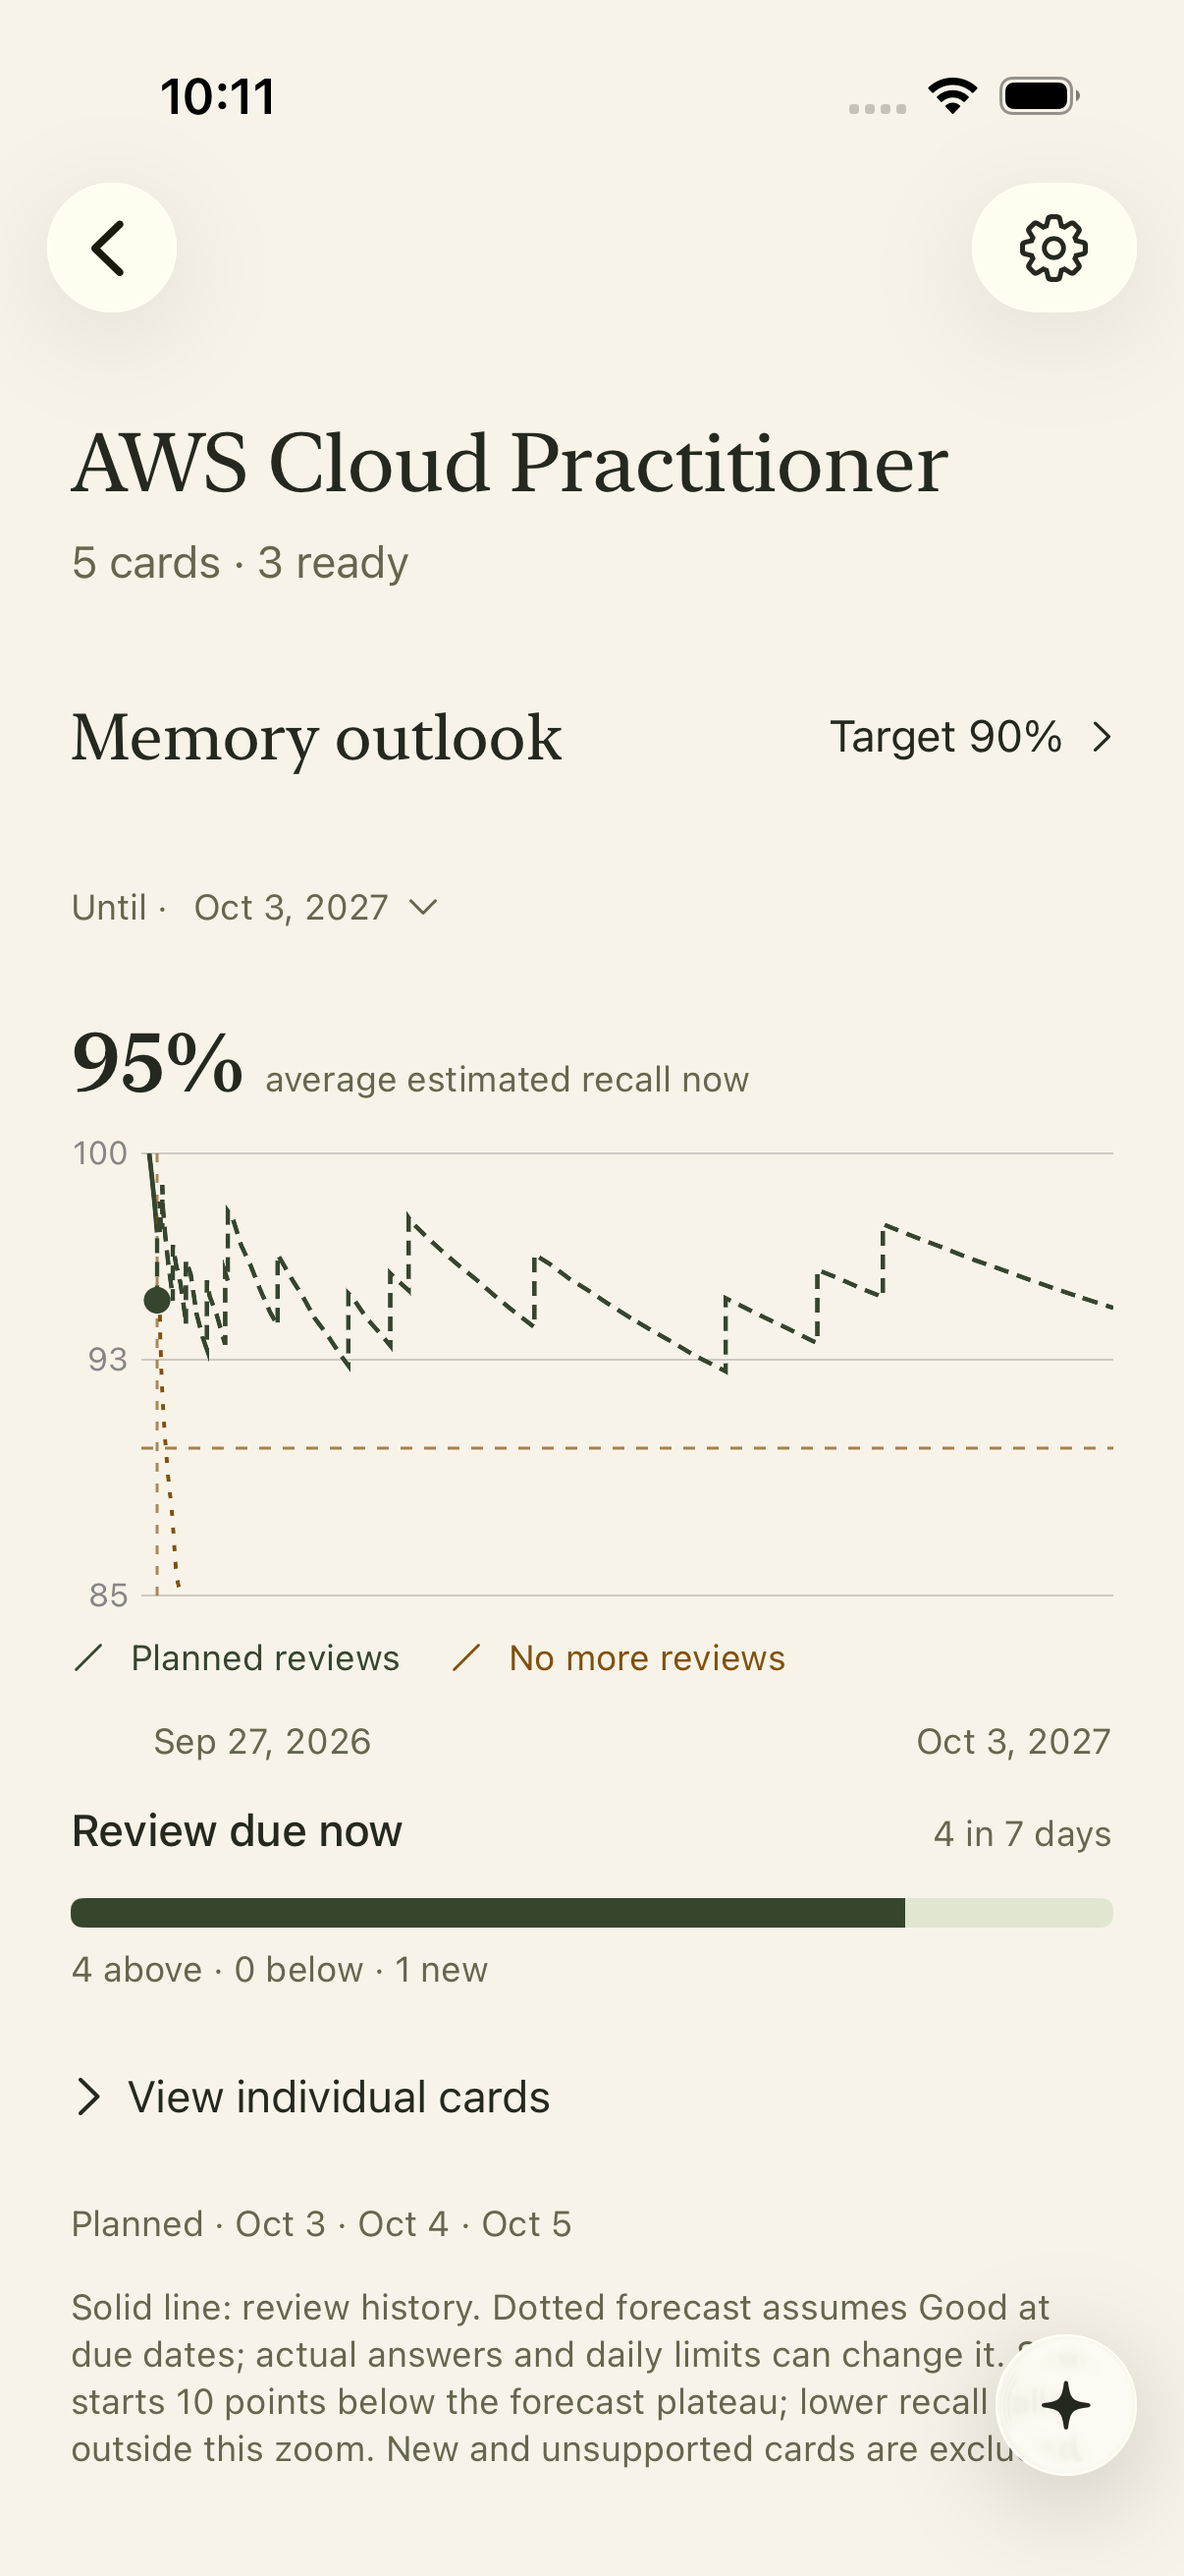
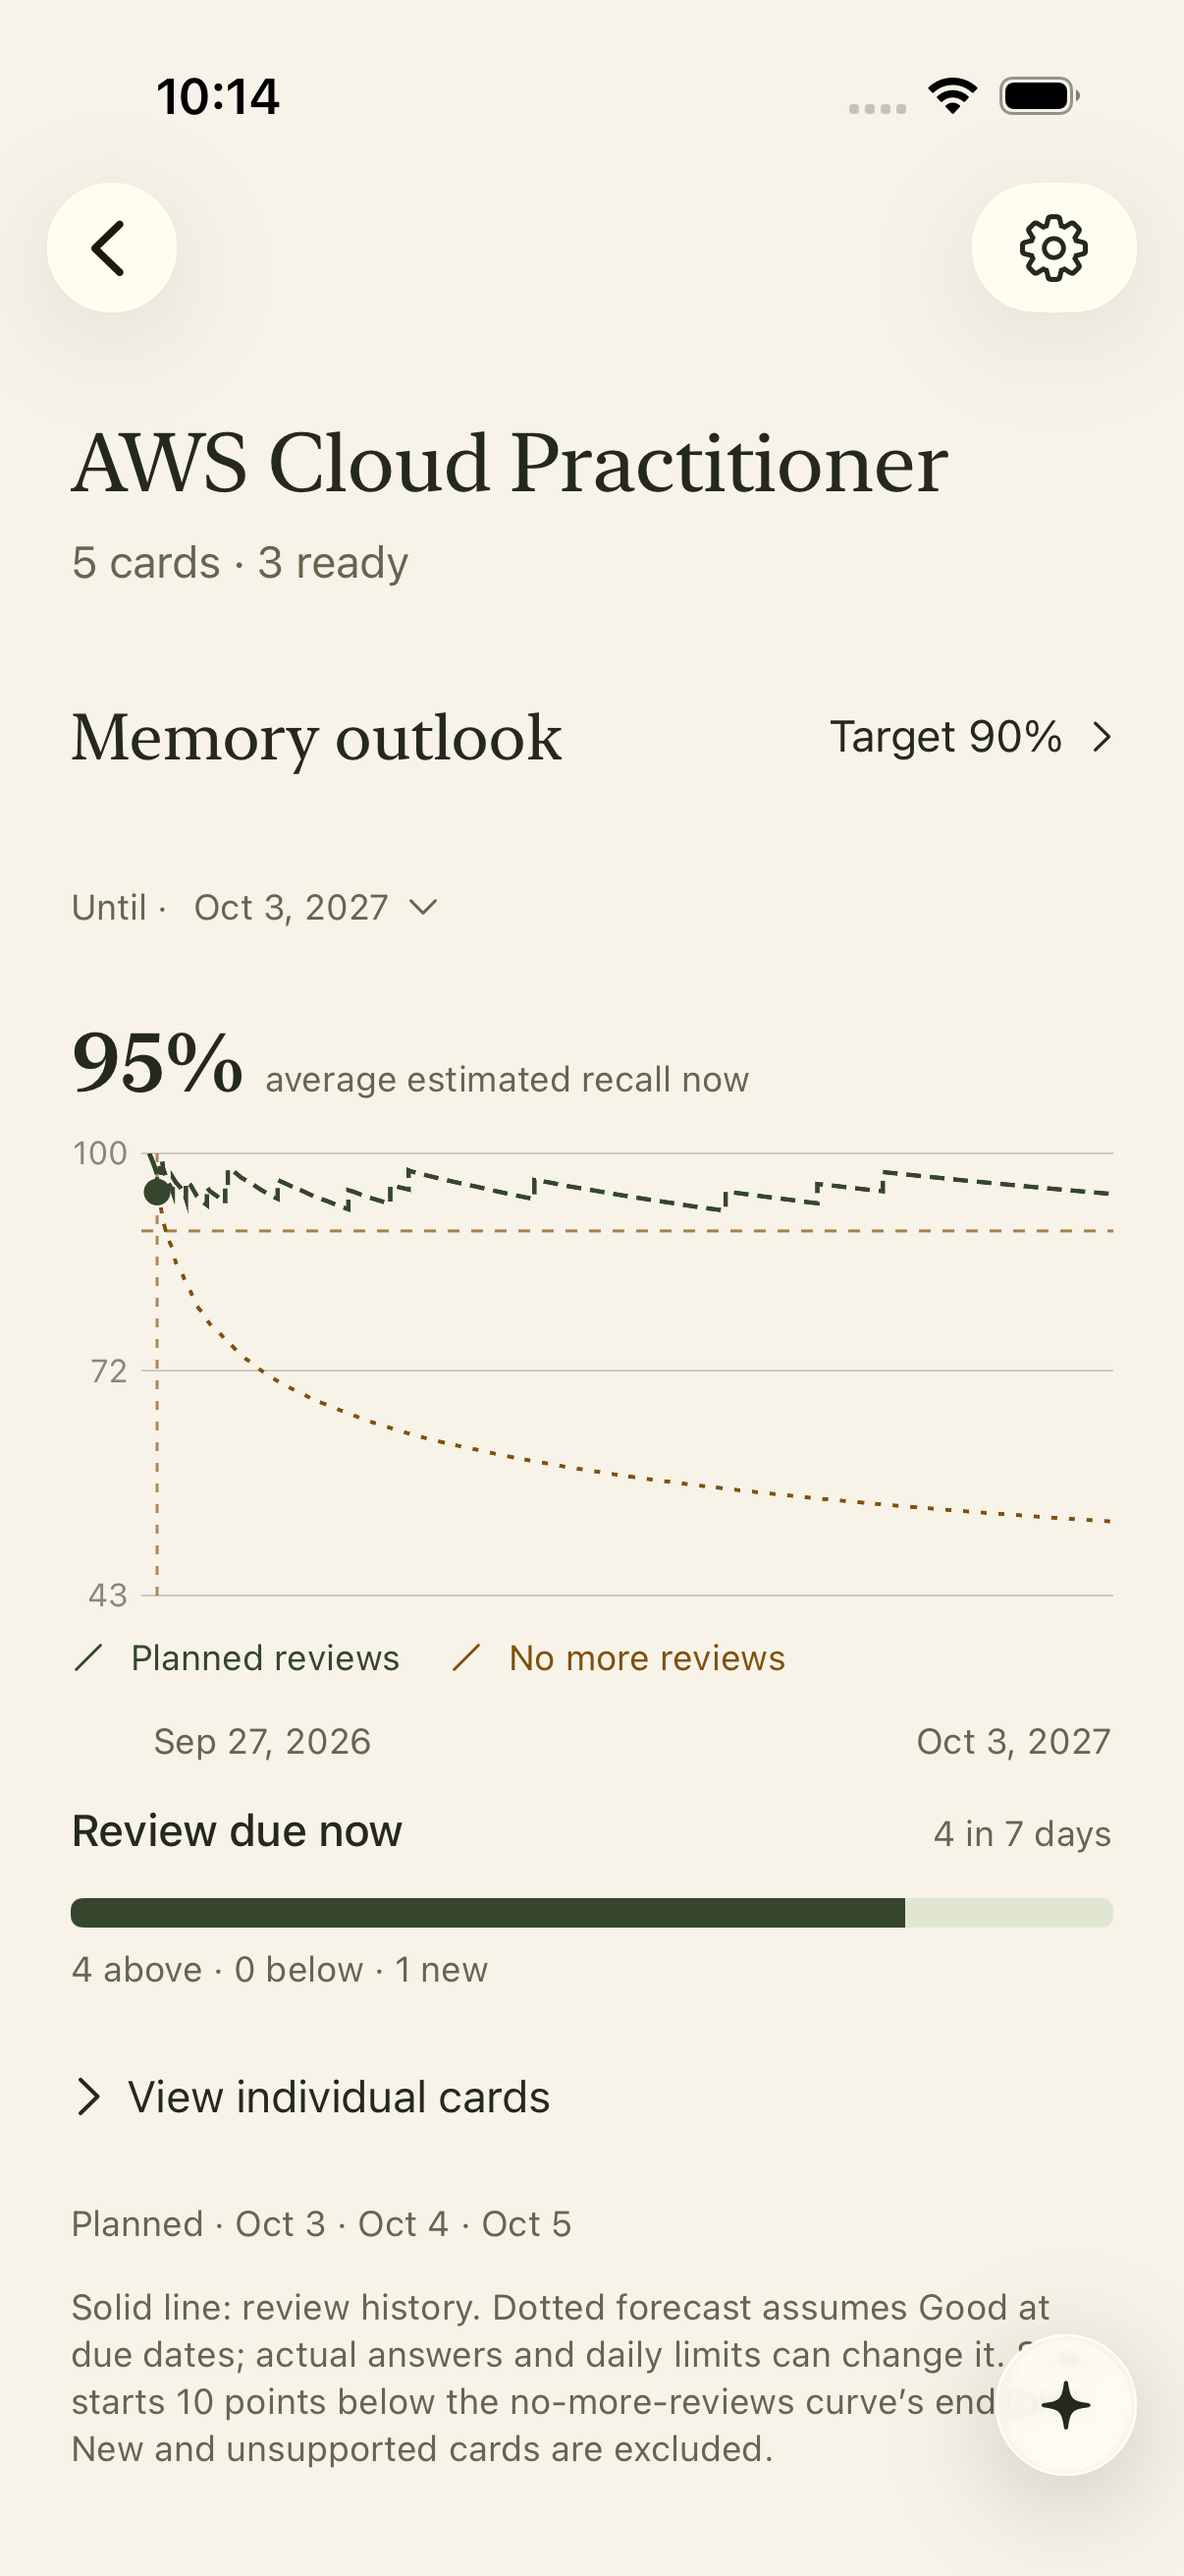
Scale retention graph from no-review plateau

diff --git a/Sources/Features/DeckMemoryPanel.swift b/Sources/Features/DeckMemoryPanel.swift
@@ -62,7 +62,7 @@ struct DeckMemoryPanel: View {
                         Text(selected == nil ? "average estimated recall now" : "estimated recall now")
                             .font(.caption).foregroundStyle(palette.secondaryText)
                     }
-                    let axis = DeckMemoryOutlook.recallAxisDomain(plateau: (selected?.projection ?? outlook.projection).last?.probability)
+                    let axis = DeckMemoryOutlook.recallAxisDomain(plateau: values.last)
                     Chart {
                         ForEach(selected?.history ?? outlook.history) { point in
                             LineMark(x: .value("Date", point.date), y: .value("Recall", point.probability * 100), series: .value("Period", "Recorded reviews"))
@@ -151,7 +151,7 @@ struct DeckMemoryPanel: View {
                     Text("Planned · " + (selected?.reviewDates ?? outlook.reviewDates).prefix(3).map { $0.formatted(.dateTime.month(.abbreviated).day()) }.joined(separator: " · "))
                         .font(.caption).foregroundStyle(palette.secondaryText)
                 }
-                Text("Solid line: review history. Dotted forecast assumes Good at due dates; actual answers and daily limits can change it. Scale starts 10 points below the forecast plateau; lower recall falls outside this zoom. New and unsupported cards are excluded.")
+                Text("Solid line: review history. Dotted forecast assumes Good at due dates; actual answers and daily limits can change it. Scale starts 10 points below the no-more-reviews curve’s endpoint. New and unsupported cards are excluded.")
                     .font(.caption).foregroundStyle(palette.secondaryText)
             }
             .task(id: "\(model.library.revision)-\(deck.id)-\(Int(model.now.timeIntervalSince1970 / 60))") {

diff --git a/Sources/StudyApplication/DeckMemoryOutlook.swift b/Sources/StudyApplication/DeckMemoryOutlook.swift
@@ -112,7 +112,7 @@ public struct DeckMemoryOutlook: Sendable {
                     nextPlannedReview: scheduled.min(),
                     scheduledWithinWeek: scheduled.filter { $0 <= now.addingTimeInterval(7 * 86_400) }.count)
     }
-    /// Zoom ten percentage points below the projected endpoint (the visible plateau).
+    /// Zoom ten percentage points below the no-more-reviews endpoint.
     public static func recallAxisDomain(plateau: Double?) -> ClosedRange<Double> {
         guard let plateau, plateau.isFinite, (0...1).contains(plateau) else { return 0...100 }
         return max(0, (plateau * 100).rounded() - 10)...100

diff --git a/docs/DECK-RETENTION-HORIZON.md b/docs/DECK-RETENTION-HORIZON.md
@@ -20,6 +20,9 @@ The future curve now simulates FSRS Good reviews at the saved due date and subse
 
 Settings → Study now includes an optional daily review reminder, off by default, and a native time picker. One stable notification identifier replaces prior times, using a repeating hour/minute calendar trigger in device-local time. Turning the toggle off removes pending reminders. The notification is a generic study invitation even when no cards are due; it exposes no deck or card content. Permission denial and scheduling errors are shown inline. No cloud service or background polling is required. UI fixtures preview controls without requesting notification permission or scheduling real alerts.
 
-The Y-axis is intentionally zoomed: its lower bound is ten percentage points below the rounded projected endpoint (plateau), with 100% at the top. Curves below the lower bound are clipped inside the plot rather than drawing outside it; the legend and disclosure identify the no-review comparison. Missing estimates fall back to 0–100%.
+The Y-axis is intentionally zoomed: its lower bound is ten percentage points below the rounded orange no-more-reviews endpoint (plateau), with 100% at the top. Curves below the lower bound are clipped inside the plot rather than drawing outside it; the legend and disclosure identify the no-review comparison. Missing estimates fall back to 0–100%.
 
 Validation for planned reviews/reminders: nine focused forecast tests passed, including upward Good-review recovery without changing stored schedules, paused decks and plateau-axis fallbacks. Reminder controls and deck navigation passed in /tmp/engram-review-reminders-final.xcresult; the final plateau graph passed in /tmp/engram-plateau-axis.xcresult. Graph and reminder screenshots were inspected and archived. Notification permission/delivery must be exercised on the physical device; fixture tests deliberately do not schedule alerts. The final signed build installed and launched on the paired iPhone at 22:11 on 3 October 2026.
+
+Plateau clarification: the axis now follows the orange no-more-reviews curve at the horizon endpoint, for both deck averages and individual cards, rather than the higher projected-review curve.
+The corrected no-review endpoint graph passed native UI validation in /tmp/engram-no-review-plateau.xcresult. Screenshot inspected and rotated; signed app installed and launched on the paired iPhone at 22:14 on 3 October 2026.
